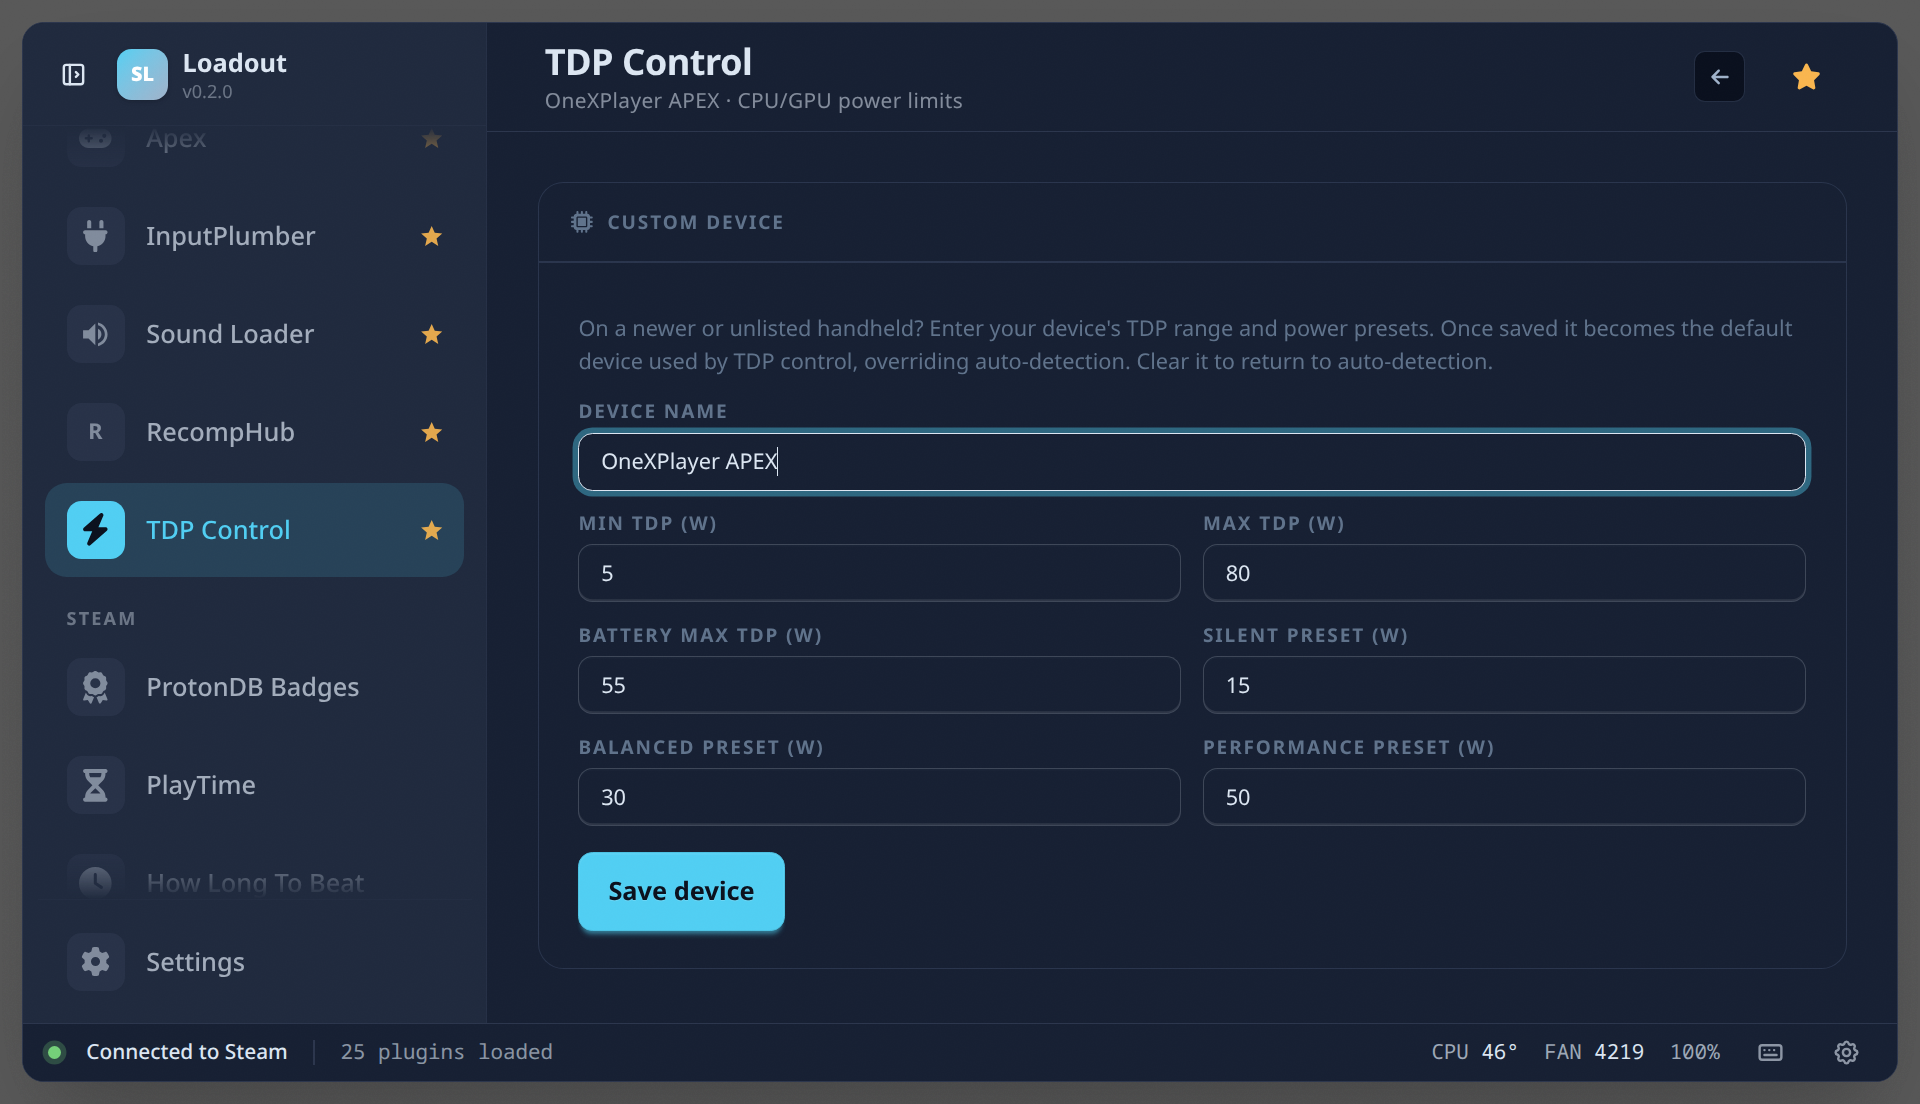
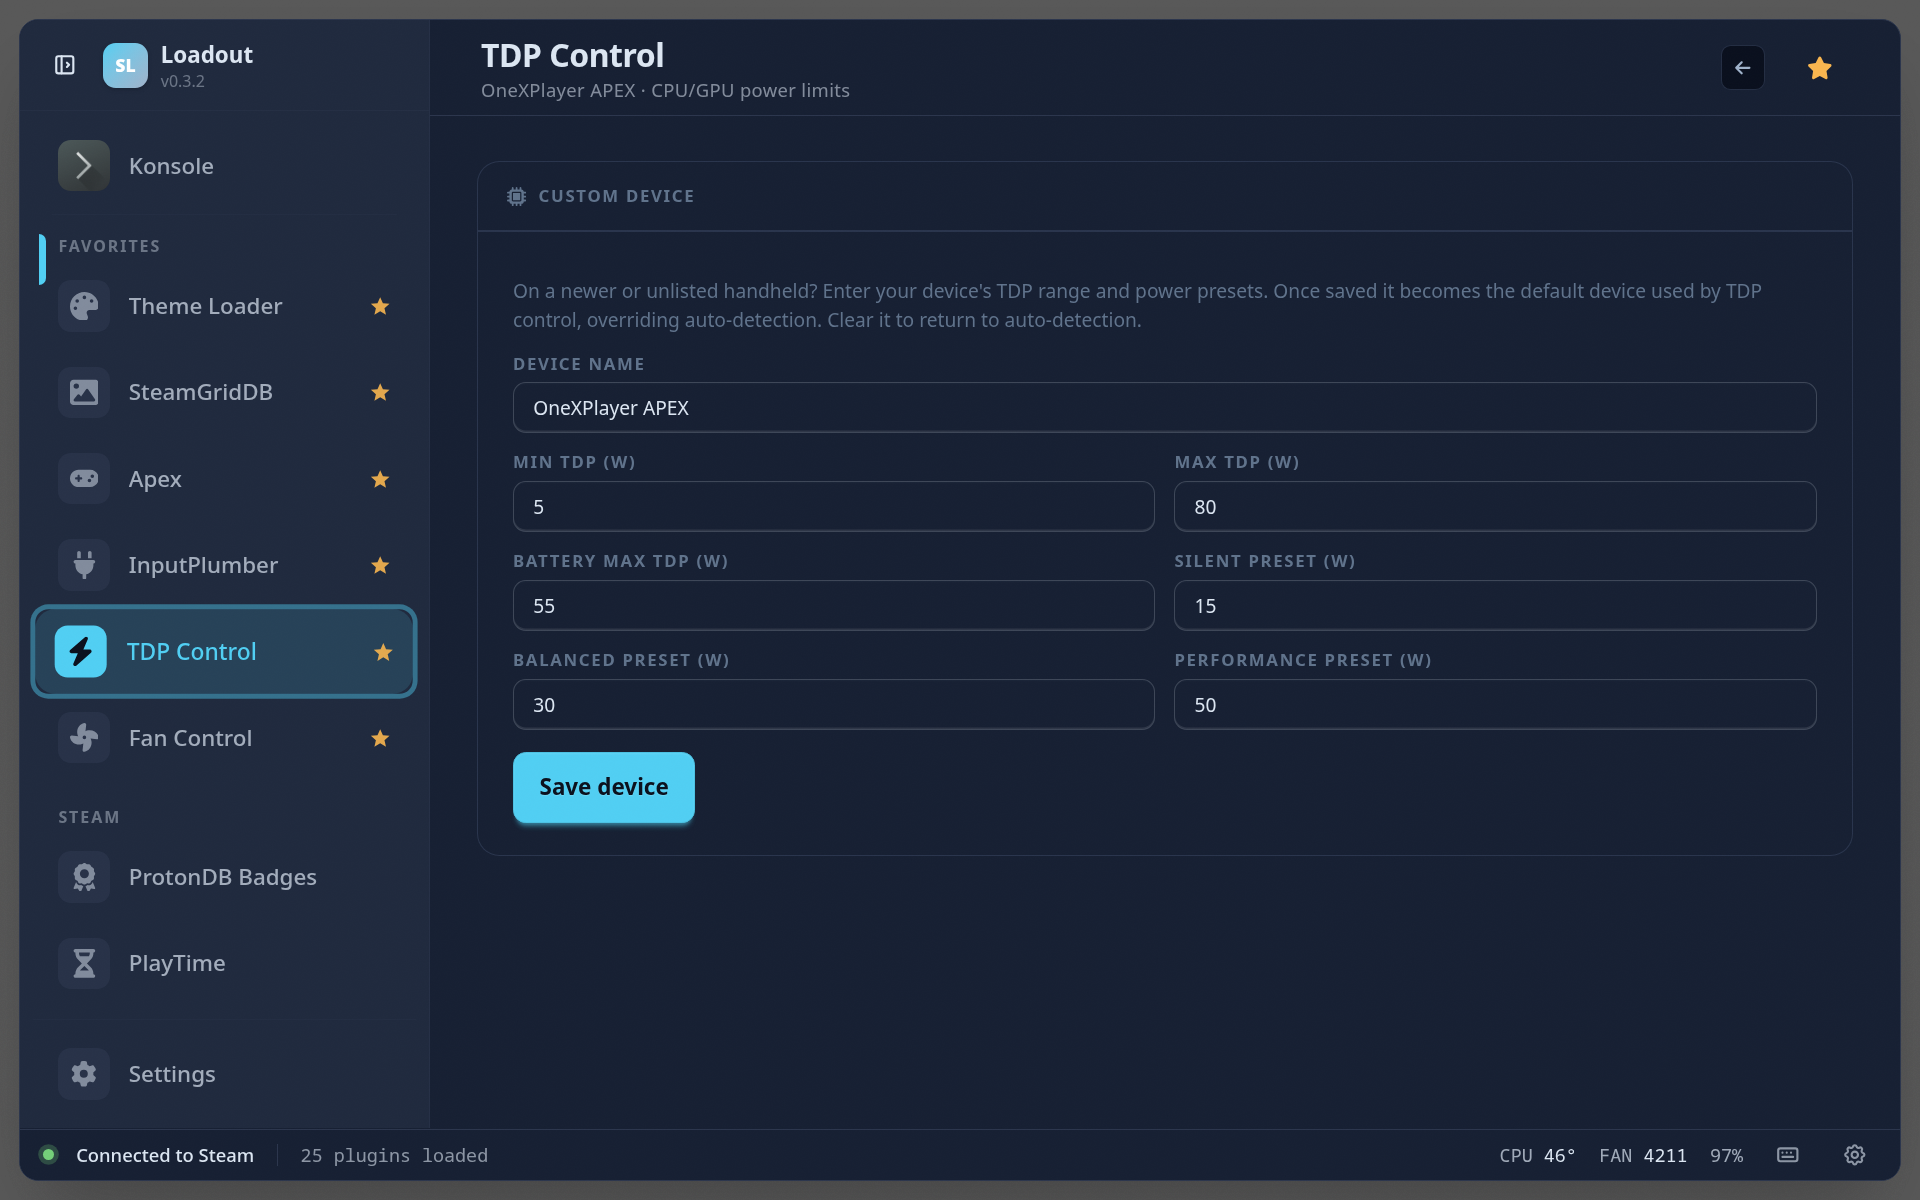
docs(tdp): document the CPU boost policy + refresh screenshots
README gains a CPU boost policy section (why boost-off is the default,
how the setting is re-asserted) and a new CPU-controls screenshot that
shows the toggle in context.

Capture-script fixes found while shooting these:
- Bounce through home before the landing shot: if the overlay is already
  sitting on the target plugin (a user browsing it, or a previous run
  that ended on a sub-view), re-setting the same hash is a no-op and the
  stale view — wrong sub-page, leftover scroll — became the landing shot.
- New `scrollTo` recipe step to frame below-the-fold sections; used for
  the tdp-control cpu-controls page.

Claude-Session: https://claude.ai/code/session_013Cc75hxt5KWUiXQHW86J9m

diff --git a/scripts/capture-screenshots.ts b/scripts/capture-screenshots.ts
@@ -68,6 +68,7 @@ type Step =
   | { kind: "tile" }
   | { kind: "aria"; label: string }
   | { kind: "text"; label: string }
+  | { kind: "scrollTo"; label: string }
   | { kind: "wait"; ms: number };
 
 interface PageShot {
@@ -96,6 +97,12 @@ const PAGE_RECIPES: Record<string, PageShot[]> = {
   // a real feature page (define TDP limits for an unlisted handheld), not a
   // generic settings screen, so it's worth capturing.
   "tdp-control": [
+    // The CPU tuning subsections (power presets, EPP, governor, CPU boost)
+    // sit below the fold on the landing view — scroll them into frame.
+    {
+      name: "cpu-controls",
+      steps: [{ kind: "scrollTo", label: "CPU Boost" }],
+    },
     { name: "settings", steps: [{ kind: "aria", label: "Custom device settings" }] },
   ],
   // Custom fan-curve editor only renders in Manual mode after the Custom
@@ -275,6 +282,10 @@ const NO_SCROLL = new Set(["recomp", "tdp-control", "playtime"]);
  * stay at the top. Then re-wait for newly-revealed artwork to load.
  */
 async function varyGridView(cdp: CDP, pluginId: string): Promise<void> {
+  // NO_SCROLL plugins keep whatever scroll state the flow set up: the top
+  // for landing shots (the home-bounce remount guarantees scrollTop 0),
+  // or wherever a recipe's `scrollTo` step deliberately positioned the
+  // page. Don't touch it — an explicit reset here would undo `scrollTo`.
   if (NO_SCROLL.has(pluginId)) return;
   const tiles = (await cdp.eval(
     `document.querySelectorAll('[data-game-card]').length`,
@@ -314,6 +325,23 @@ async function clickSelector(cdp: CDP, selector: string): Promise<boolean> {
     const el = document.querySelector(${JSON.stringify(selector)});
     if (!el) return false;
     el.click();
+    return true;
+  })()`;
+  return (await cdp.eval(expr)) === true;
+}
+
+/**
+ * Scroll the element whose text starts with `label` to the viewport
+ * center (subsection headings aren't buttons, so match any element with
+ * its own text). Instant (no smooth behavior) so the follow-up settle
+ * wait isn't racing an animation.
+ */
+async function scrollToText(cdp: CDP, label: string): Promise<boolean> {
+  const expr = `(() => {
+    const els = [...document.querySelectorAll('.subsection-label, .subsection-label span, .card-title, h2, h3')];
+    const el = els.find((e) => (e.textContent || "").trim().startsWith(${JSON.stringify(label)}));
+    if (!el) return false;
+    el.scrollIntoView({ block: "center", behavior: "instant" });
     return true;
   })()`;
   return (await cdp.eval(expr)) === true;
@@ -366,6 +394,8 @@ async function runSteps(cdp: CDP, steps: Step[]): Promise<boolean> {
       );
     else if (step.kind === "text")
       ok = await clickWithRetry(cdp, () => clickText(cdp, step.label));
+    else if (step.kind === "scrollTo")
+      ok = await clickWithRetry(cdp, () => scrollToText(cdp, step.label));
     if (!ok) return false;
     await sleep(SETTLE_MS);
     await waitForIdle(cdp); // sub-page may fetch on open (detail pages)
@@ -515,6 +545,11 @@ async function main(): Promise<void> {
     const pid = PLUGINS[idx]!;
     if (only && !only.has(pid)) continue;
     const nn = String(idx + 3).padStart(2, "0");
+    // Bounce through home first: if the overlay is already sitting on this
+    // plugin (a user browsing it, or a previous run that ended on one of
+    // its sub-views), re-setting the same hash is a no-op and the stale
+    // view — wrong sub-page, leftover scroll — becomes the landing shot.
+    await navigate(cdp, "#/");
     await navigate(cdp, `#/plugin/${pid}`);
     if (LANDING_SETUP[pid]) await runSteps(cdp, LANDING_SETUP[pid]);
     await varyGridView(cdp, pid);

diff --git a/plugins/tdp-control/README.md b/plugins/tdp-control/README.md
@@ -4,11 +4,23 @@
 
 Set your CPU/APU power limit (TDP) with quick presets and a slider, optionally per game, to balance performance against battery life and heat — the single biggest knob for tuning a handheld.
 
+Beyond the wattage itself, the plugin exposes the CPU knobs that decide how the chip *uses* that budget: energy-performance preference (EPP), scaling governor, platform profile, and CPU boost.
+
+## CPU boost policy
+
+A TDP limit alone doesn't govern power draw: with boost left on, the CPU races to its maximum clocks under any sustained load — regardless of governor or EPP — and fills whatever envelope the limit allows. The result is draw that sits *at the limit* instead of tracking the workload (a 45 W limit with a 30 fps cap burns 45 W where ~30 W would do).
+
+TDP Control therefore keeps CPU boost **off by default**, and re-applies the setting alongside every TDP write and at service startup — the kernel resets the knob to on at every boot, so a one-time write wouldn't stick. If you want boost clocks anyway (e.g. plugged in, CPU-bound emulation), flip the **CPU Boost** toggle: your choice persists and is re-asserted the same way.
+
 ## Screenshots
 
 ### Overview
 
 ![TDP Control — Overview](./assets/screenshot.png)
+
+### CPU controls
+
+![TDP Control — CPU controls](./assets/screenshot-cpu-controls.png)
 
 ### Settings
 